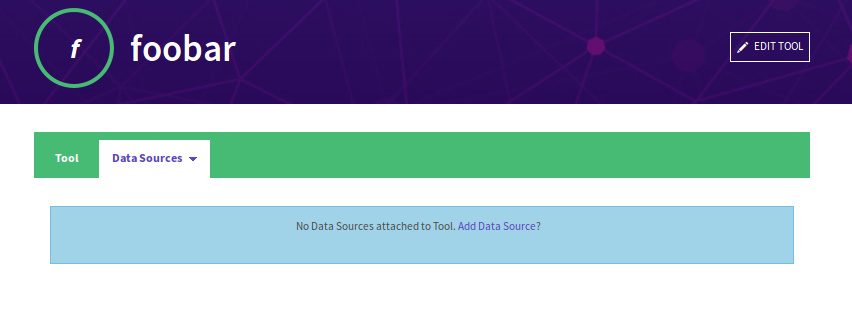
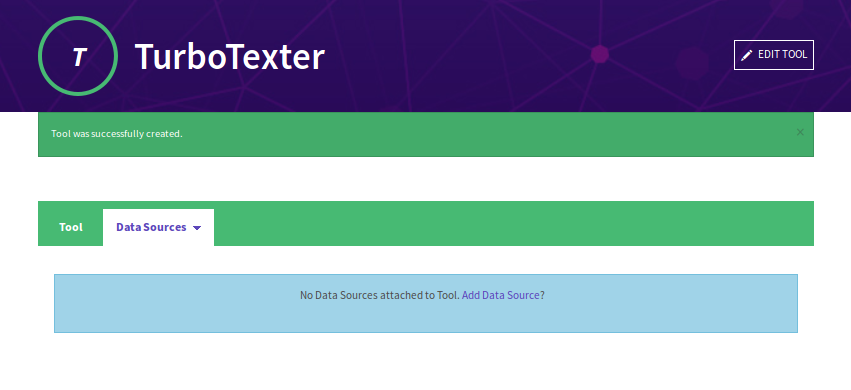
Updating tool creation to new workflow

diff --git a/documentation/user_manual/readme.md b/documentation/user_manual/readme.md
@@ -168,29 +168,26 @@ You will see the "Add new tool" dialog.
 - 1) Fill out the name of the tool..
 - 2) ..and click "add tool"
 
-!["Tool successfully added" message](./images/tool_successfully_added_message.png)
+!["Tool successfully added" message](./images/newly_created_tool.png)
 *The message informing you of a new tool beeing successfully added*
 
-You will be returned to the admin section tool listing, and shown a message bar informing you that the new tool has been added. Note that this only creates an "empty" tool - there in no information in it, and no data sources connected to it. That will be added in the next step.
-
-Adding information to a new tool
---------------------------------
-
-First you need to find the the tool in the admin section listings. Here we will use the classical "foobar" as an example.
-
-![Editing a tool in the admin section listing](./images/selecting_a_tool_in_the_admin_section_listing.png)
-*To view/edit a tool, just click on its name in the admin section listing*
-
-You should se a very "bare-bones" tool page, like this:
-
-![A recently created tool, without data sources](./images/bare_tool.png)
-*A recently created tool, without data sources*
+You will be taken to the page of the newly added tool. Note that this only creates an "empty" tool - there in no information in it, and no data sources connected to it. That will be added in the next step.
 
 As you can see, there are no data sources connected to this tool. Now we will add one.
 
 ![The data sources menu of a recently created tool](./images/data_source_menu.png)
 *The data sources menu of a recently created tool*
 
+You can either use the "Add Data Source" link, or pick "Add Data Source" in the "Data Sources" menu. Later, once you have added a data source, only the menu will be available.
+
+
+Editing an existing tool
+------------------------
+
+First you need to find the the tool in the admin section listings. Here we will use the classical "foobar" as an example.
+
+![Editing a tool in the admin section listing](./images/selecting_a_tool_in_the_admin_section_listing.png)
+*To view/edit a tool, just click on its name in the admin section listing*
 
 Removing an existing tool
 -------------------------
